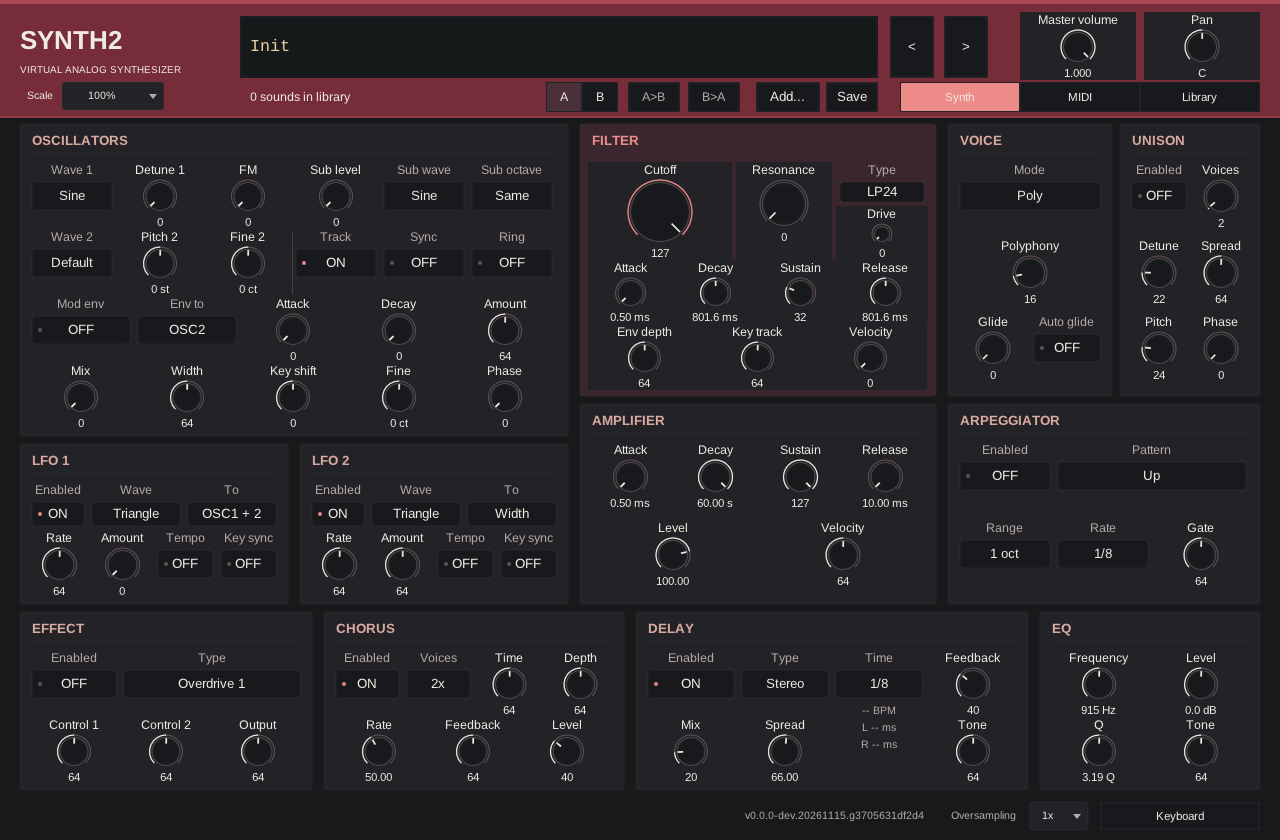
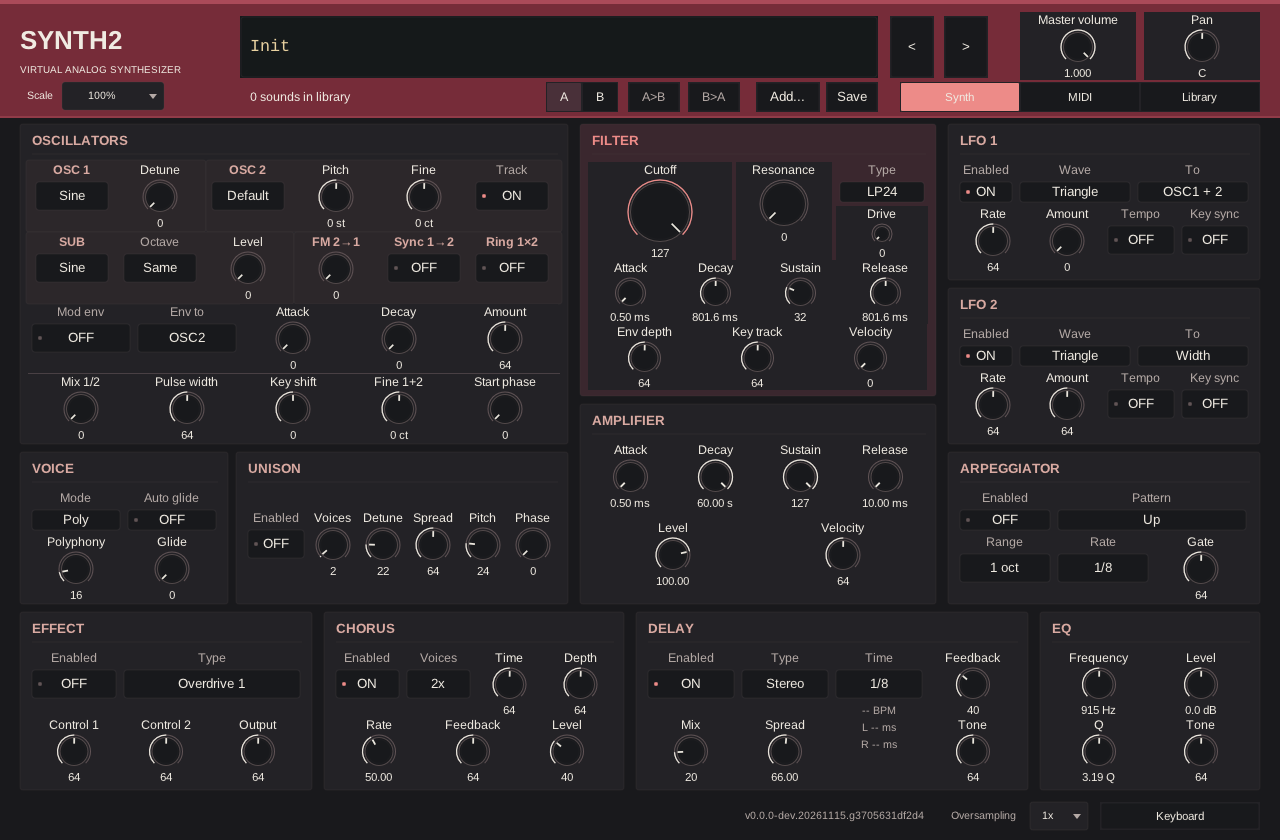
Group oscillator controls and place voice settings nearby

diff --git a/tools/editor-preview.html b/tools/editor-preview.html
@@ -29,13 +29,15 @@
 .section{background:var(--panel);border-color:var(--border);border-radius:3px}.section h2{font-size:13px;color:var(--tone);letter-spacing:1.6px}.section p{display:none}
 .section::after{content:'';position:absolute;left:12px;right:10px;top:29px;border-top:.5px solid var(--border)}
 .section.focus{background:var(--filterPanel)}
+.oscillator-group{position:absolute;background:var(--groupPanel);border:.5px solid var(--border);border-radius:3px;pointer-events:none}
+.control.group-heading .control-label{color:var(--groupText);font-weight:bold}
 .control{padding-top:0}.control-label{height:13px;line-height:13px;color:var(--muted)}
 .knob{background:conic-gradient(from 225deg,var(--tone) 0deg var(--sweep),var(--track) var(--sweep) 270deg,transparent 270deg)}
 .knob::after{inset:3px;background:var(--control);border:1px solid var(--controlEdge);box-shadow:inset 0 1px 1px #ffffff0a,0 1px 2px #0008}
 .needle{background:var(--pointer);top:6px;transform-origin:1px calc(var(--diameter) * .5px - 6px);height:calc(var(--diameter) * .22px)}
 .control.analog .value{top:calc(16px + var(--diameter) * 1px);left:0;width:100%;height:12px;color:var(--muted);font-size:10px}
 .source-choice,.toggle{background:var(--control);color:var(--text);border-color:var(--controlEdge);border-radius:3px;margin-top:6px}
-.toggle{position:relative}.toggle::before{content:'';position:absolute;left:8px;top:calc(50% - 2px);width:4px;height:4px;border-radius:50%;background:var(--track)}
+.toggle{position:relative}.toggle::before{content:'';position:absolute;left:6px;top:calc(50% - 2px);width:4px;height:4px;border-radius:50%;background:var(--track)}
 .toggle.on{color:var(--text);border-color:var(--controlEdge);background:var(--control)}.toggle.on::before{background:var(--accent);box-shadow:0 0 4px #ed8b8840}
 .status,.hint{color:var(--muted)}
 .key{background:linear-gradient(#e2ded5,#d0cec4);color:#6c6a62;border-color:#5b5653}.key.black{background:linear-gradient(#2b2a2b,#141417);border-color:#101013}.key.down{background:#d69a9a}.key.black.down{background:#7c3b46}
@@ -47,7 +49,7 @@
 .subtitle{font-size:11px}
 .section h2{font-size:var(--type-heading)}
 .control-label,.supplement .control-label{font-size:var(--type-label)}
-.control-label{height:16px;line-height:16px}
+.control{padding-top:0}.control-label{height:16px;line-height:16px}
 .knob{margin-top:1px}
 .control.analog .value{top:calc(18px + var(--diameter) * 1px);height:14px;font-size:var(--type-value)}
 .source-choice,.toggle{margin-top:4px;height:28px;max-height:calc(100% - 24px)}
@@ -110,9 +112,9 @@ function displayValue(index,value){
 }
 function setValue(index,value,edit=true){const p=model.parameters[index];if(!Number.isFinite(value))return;values[index]=Math.min(p.maximum,Math.max(p.minimum,edit&&p.integerSteps?Math.sign(value)*Math.round(Math.abs(value)):value));if(edit){modified=true;const name=selected>=0?bank[selected].name:'Init';refreshComparison();message(model.names[index]+'  /  '+formatted(values[index]));}redraw(index);}
 function redraw(index){const entry=controls.get(index);if(!entry)return;const {node,meta}=entry,p=model.parameters[index],value=values[index];if(p.toggle){const b=node.querySelector('button');b.classList.toggle('on',value!==0);b.textContent=value!==0?'ON':'OFF';b.setAttribute('aria-pressed',String(value!==0));}else if(p.choices.length){const s=node.querySelector('select');s.querySelectorAll('[data-raw]').forEach(x=>x.remove());if(!p.choices.some(x=>x[0]===value)){const option=new Option(value===0?'Default':'Custom',value);option.dataset.raw='true';s.append(option);}s.value=String(value);}else{const normalized=(value-p.minimum)/(p.maximum-p.minimum);node.style.setProperty('--sweep',(normalized*270)+'deg');node.style.setProperty('--angle',(-135+normalized*270)+'deg');const field=node.querySelector('.value');if(document.activeElement!==field)field.value=displayValue(index,value);node.querySelector('.knob-input').value=value;}}
-function control(meta,tone,supplement=false){const index=meta.parameter,p=model.parameters[index],node=document.createElement('div');node.className='control';node.dataset.parameter=index;node.style.setProperty('--tone',meta.tone??tone);bounds(node,meta.bounds);const label=document.createElement('label');label.className='control-label';label.textContent=meta.label;label.htmlFor='p'+index;node.append(label);node.title=model.names[index]+' (p'+index+')';if(p.toggle){const button=document.createElement('button');button.id='p'+index;button.className='toggle';button.setAttribute('aria-label',model.names[index]);button.addEventListener('click',()=>setValue(index,values[index]!==0?0:1));node.append(button);}else if(p.choices.length){const select=document.createElement('select');select.id='p'+index;select.className='source-choice';select.setAttribute('aria-label',model.names[index]);for(const [value,name,group]of p.choices){let parent=select;if(group){parent=[...select.children].find(n=>n.tagName==='OPTGROUP'&&n.label===group);if(!parent){parent=document.createElement('optgroup');parent.label=group;select.append(parent);}}parent.append(new Option(name,value));}select.addEventListener('change',()=>setValue(index,+select.value));node.append(select);}else{node.classList.add('analog');const diameter=meta.diameter??Math.max(18,Math.min(34,meta.bounds[3]-32));node.style.setProperty('--diameter',diameter);const knob=document.createElement('div');knob.className='knob';const needle=document.createElement('span');needle.className='needle';knob.append(needle);const input=document.createElement('input');input.id='p'+index;input.type='range';input.min=p.minimum;input.max=p.maximum;input.step=p.integerSteps?'1':'0.001';input.className='knob-input';input.setAttribute('aria-label',model.names[index]);input.addEventListener('input',()=>setValue(index,+input.value));input.addEventListener('pointerdown',event=>{event.preventDefault();input.focus();input.setPointerCapture(event.pointerId);drag={index,y:event.clientY,value:values[index],pointer:event.pointerId};});input.addEventListener('pointermove',event=>{if(!drag||drag.index!==index)return;const scale=$('instrument').getBoundingClientRect().width/1280;const step=(p.maximum-p.minimum)/160;const value=drag.value+(drag.y-event.clientY)/scale*step*(event.shiftKey?.1:1);setValue(index,Math.round(value*100)/100);});input.addEventListener('pointerup',()=>drag=null);input.addEventListener('pointercancel',()=>drag=null);input.addEventListener('dblclick',()=>setValue(index,base[index]));knob.append(input);node.append(knob);const number=document.createElement('input');number.className='value';number.type='text';number.inputMode=p.integerSteps?'numeric':'decimal';number.title='Click to edit the original source number ('+p.minimum+'–'+p.maximum+').';number.min=p.minimum;number.max=p.maximum;number.step=p.integerSteps?'1':'0.001';number.setAttribute('aria-label',model.names[index]+' value');number.addEventListener('focus',()=>{number.value=formatted(values[index]);number.select();message(model.names[index]+' / Edit source value '+p.minimum+'–'+p.maximum);});number.addEventListener('change',()=>{if(number.value.trim())setValue(index,Number(number.value));});number.addEventListener('blur',()=>redraw(index));number.addEventListener('keydown',event=>{if(event.key==='Enter')number.blur();if(event.key==='Escape'){number.value=formatted(values[index]);number.blur();}});node.append(number);}controls.set(index,{node,meta});node.addEventListener('focusin',()=>message(model.names[index]+'  /  p'+index));return node;}
+function control(meta,tone,supplement=false){const index=meta.parameter,p=model.parameters[index],node=document.createElement('div');node.className='control'+(meta.groupLabel?' group-heading':'');node.dataset.parameter=index;node.style.setProperty('--tone',meta.tone??tone);bounds(node,meta.bounds);const label=document.createElement('label');label.className='control-label';label.textContent=meta.label;label.htmlFor='p'+index;node.append(label);node.title=meta.help||(model.names[index]+' (p'+index+')');if(p.toggle){const button=document.createElement('button');button.id='p'+index;button.className='toggle';button.setAttribute('aria-label',model.names[index]);button.addEventListener('click',()=>setValue(index,values[index]!==0?0:1));node.append(button);}else if(p.choices.length){const select=document.createElement('select');select.id='p'+index;select.className='source-choice';select.setAttribute('aria-label',model.names[index]);for(const [value,name,group]of p.choices){let parent=select;if(group){parent=[...select.children].find(n=>n.tagName==='OPTGROUP'&&n.label===group);if(!parent){parent=document.createElement('optgroup');parent.label=group;select.append(parent);}}parent.append(new Option(name,value));}select.addEventListener('change',()=>setValue(index,+select.value));node.append(select);}else{node.classList.add('analog');const diameter=meta.diameter??Math.max(18,Math.min(34,meta.bounds[3]-32));node.style.setProperty('--diameter',diameter);const knob=document.createElement('div');knob.className='knob';const needle=document.createElement('span');needle.className='needle';knob.append(needle);const input=document.createElement('input');input.id='p'+index;input.type='range';input.min=p.minimum;input.max=p.maximum;input.step=p.integerSteps?'1':'0.001';input.className='knob-input';input.setAttribute('aria-label',model.names[index]);input.addEventListener('input',()=>setValue(index,+input.value));input.addEventListener('pointerdown',event=>{event.preventDefault();input.focus();input.setPointerCapture(event.pointerId);drag={index,y:event.clientY,value:values[index],pointer:event.pointerId};});input.addEventListener('pointermove',event=>{if(!drag||drag.index!==index)return;const scale=$('instrument').getBoundingClientRect().width/1280;const step=(p.maximum-p.minimum)/160;const value=drag.value+(drag.y-event.clientY)/scale*step*(event.shiftKey?.1:1);setValue(index,Math.round(value*100)/100);});input.addEventListener('pointerup',()=>drag=null);input.addEventListener('pointercancel',()=>drag=null);input.addEventListener('dblclick',()=>setValue(index,base[index]));knob.append(input);node.append(knob);const number=document.createElement('input');number.className='value';number.type='text';number.inputMode=p.integerSteps?'numeric':'decimal';number.title='Click to edit the original source number ('+p.minimum+'–'+p.maximum+').';number.min=p.minimum;number.max=p.maximum;number.step=p.integerSteps?'1':'0.001';number.setAttribute('aria-label',model.names[index]+' value');number.addEventListener('focus',()=>{number.value=formatted(values[index]);number.select();message(model.names[index]+' / Edit source value '+p.minimum+'–'+p.maximum);});number.addEventListener('change',()=>{if(number.value.trim())setValue(index,Number(number.value));});number.addEventListener('blur',()=>redraw(index));number.addEventListener('keydown',event=>{if(event.key==='Enter')number.blur();if(event.key==='Escape'){number.value=formatted(values[index]);number.blur();}});node.append(number);}controls.set(index,{node,meta});node.addEventListener('focusin',()=>message(model.names[index]+'  /  p'+index));return node;}
 for(const [key,bounds] of [["headerMaster","masterVolume"],["headerPan","pan"]])surface.append(control({...model[key],bounds:model.chrome[bounds]},model.appearance.pointer));
-for(const panel of model.panels){const section=document.createElement('section');section.className='section primary'+(panel.title==='FILTER'?' focus':'');section.title=panel.description;section.style.setProperty('--tone',panel.accent);bounds(section,panel.bounds);const h=document.createElement('h2');h.textContent=panel.title;const d=document.createElement('p');d.textContent=panel.description;section.append(h,d);surface.append(section);for(const divider of panel.dividers){const line=document.createElement('div');line.className='panel-divider primary';bounds(line,divider);surface.append(line);}for(const meta of panel.controls){const c=control(meta,panel.accent);c.classList.add('primary');surface.append(c);}}
+for(const panel of model.panels){const section=document.createElement('section');section.className='section primary'+(panel.title==='FILTER'?' focus':'');section.title=panel.description;section.style.setProperty('--tone',panel.accent);bounds(section,panel.bounds);const h=document.createElement('h2');h.textContent=panel.title;const d=document.createElement('p');d.textContent=panel.description;section.append(h,d);surface.append(section);for(const group of panel.groups){const area=document.createElement('div');area.className='oscillator-group primary';bounds(area,group);surface.append(area);}for(const divider of panel.dividers){const line=document.createElement('div');line.className='panel-divider primary';bounds(line,divider);surface.append(line);}for(const meta of panel.controls){const c=control(meta,panel.accent);c.classList.add('primary');surface.append(c);}}
 const timing=document.createElement('div');timing.className='delay-timing primary';bounds(timing,model.delayTimingBounds);timing.innerHTML='-- BPM<br>L -- ms<br>R -- ms';surface.append(timing);
 for(const panel of model.midiPanels){const section=document.createElement('section');section.className='section supplement';section.dataset.supplement=1;bounds(section,panel.bounds);const h=document.createElement('h2');h.textContent=panel.title;section.append(h);surface.append(section);for(const divider of panel.dividers){const line=document.createElement('div');line.className='panel-divider supplement';line.dataset.supplement=1;bounds(line,divider);surface.append(line);}for(const meta of panel.controls){const c=control(meta,panel.accent);c.classList.add('supplement');c.dataset.supplement=1;surface.append(c);}}
 

diff --git a/projects/Synth2/src/editor/EditorLayout.h b/projects/Synth2/src/editor/EditorLayout.h
@@ -9,6 +9,35 @@ namespace synth2::editor
 struct EditorChoice { int value; const char* label; const char* group=nullptr; };
 struct EditorBounds { int x,y,width,height; };
 struct EditorControl { int parameter; const char* label; };
+inline bool editorGroupHeading(int parameter)
+{
+    return parameter==0 || parameter==1 || parameter==96 || parameter==45 || parameter==6 || parameter==7;
+}
+inline bool editorOscillatorGrouped(int parameter)
+{
+    switch(parameter) {
+        case 0: case 76: case 45: case 95: case 96: case 97:
+        case 1: case 2: case 3: case 4: case 6: case 7: return true;
+        default: return false;
+    }
+}
+inline const char* editorControlHelp(int parameter)
+{
+    switch(parameter) {
+        case 4:return "OSC2 keyboard tracking. When off, OSC2 uses a fixed pitch.";
+        case 5:return "OSC1/OSC2 balance; Sub follows the OSC1 side. With Ring on, blends dry OSC1 and the ring-modulated signal.";
+        case 6:return "OSC1 synchronizes OSC2 by resetting its cycle. OSC2 Pitch changes the synced timbre.";
+        case 7:return "Ring-modulates OSC1 with OSC2. Mix blends dry OSC1 and the ring-modulated signal. Ring takes precedence over FM.";
+        case 8:return "Pulse width for OSC1 and OSC2 when a pulse waveform is selected.";
+        case 45:return "OSC2 modulates OSC1. Ring takes precedence over FM processing; the FM amount is retained and can still affect Ring-mode level.";
+        case 91:return "Oscillator start phase: 0 is random; fixed settings establish OSC1/OSC2 phase relationships at note-on.";
+        case 92:return "Phase spread across Unison voices when a fixed oscillator start phase is selected.";
+        case 95:return "Sub oscillator level. Sub follows OSC1 pitch, and the OSC1/OSC2 Mix also affects its level.";
+        case 96:return "Sub oscillator waveform, referenced to OSC1 pitch and the Sub octave setting.";
+        case 97:return "Sub oscillator pitch relative to OSC1: the same octave or one octave lower.";
+        default:return nullptr;
+    }
+}
 struct EditorPanel
 {
     const char* title;
@@ -88,25 +117,26 @@ inline std::vector<EditorChoice> editorChoices(int index)
 inline const std::vector<EditorPanel>& editorPanels()
 {
     static const std::vector<EditorPanel> panels {
-        {"OSCILLATORS","OSC1 + OSC2  /  FM, Ring & Sub","#d9aaa2",{20,124,548,312},6,
-            {{0,"Wave 1"},{76,"Detune 1"},{45,"FM"},{95,"Sub level"},{96,"Sub wave"},{97,"Sub octave"},
-             {1,"Wave 2"},{2,"Pitch 2"},{3,"Fine 2"},{4,"Track"},{6,"Sync"},{7,"Ring"},
+        {"OSCILLATORS","OSC1 + OSC2  /  FM, Ring & Sub","#d9aaa2",{20,124,548,320},6,
+            {{0,"OSC 1"},{76,"Detune"},{1,"OSC 2"},{2,"Pitch"},{3,"Fine"},{4,"Track"},
+             {96,"SUB"},{97,"Octave"},{95,"Level"},
+             {45,"FM 2\xe2\x86\x92" "1"},{6,"Sync 1\xe2\x86\x92" "2"},{7,"Ring 1\xc3\x97" "2"},
              {10,"Mod env"},{71,"Env to"},{12,"Attack"},{13,"Decay"},{11,"Amount"},
-             {5,"Mix"},{8,"Width"},{9,"Key shift"},{72,"Fine"},{91,"Phase"}}},
+             {5,"Mix 1/2"},{8,"Pulse width"},{9,"Key shift"},{72,"Fine 1+2"},{91,"Start phase"}}},
         {"FILTER","Tone & filter envelope","#ed8b88",{580,124,356,272},4,
             {{14,"Type"},{19,"Cutoff"},{20,"Resonance"},{23,"Drive"},{15,"Attack"},{16,"Decay"},
              {17,"Sustain"},{18,"Release"},{21,"Env depth"},{22,"Key track"},{24,"Velocity"}}},
         {"AMPLIFIER","Level & amplitude envelope","#d9aaa2",{580,404,356,200},4,
             {{25,"Attack"},{26,"Decay"},{27,"Sustain"},{28,"Release"},{29,"Level"},{30,"Velocity"}}},
-        {"LFO 1","Independent modulation","#d9aaa2",{20,444,268,160},3,
+        {"LFO 1","Independent modulation","#d9aaa2",{948,124,312,156},3,
             {{57,"Enabled"},{42,"Wave"},{41,"To"},{43,"Rate"},{44,"Amount"},{67,"Tempo"},{68,"Key sync"}}},
-        {"LFO 2","Independent modulation","#d9aaa2",{300,444,268,160},3,
+        {"LFO 2","Independent modulation","#d9aaa2",{948,288,312,156},3,
             {{58,"Enabled"},{47,"Wave"},{46,"To"},{48,"Rate"},{49,"Amount"},{69,"Tempo"},{70,"Key sync"}}},
-        {"VOICE","Play mode, polyphony & glide","#d9aaa2",{948,124,164,272},2,
+        {"VOICE","Play mode, polyphony & glide","#d9aaa2",{20,452,208,152},2,
             {{38,"Mode"},{94,"Polyphony"},{39,"Glide"},{74,"Auto glide"}}},
-        {"UNISON","Voice stacking & stereo spread","#d9aaa2",{1120,124,140,272},2,
+        {"UNISON","Voice stacking & stereo spread","#d9aaa2",{236,452,332,152},6,
             {{73,"Enabled"},{93,"Voices"},{75,"Detune"},{84,"Spread"},{85,"Pitch"},{92,"Phase"}}},
-        {"ARPEGGIATOR","Tempo-based note motion","#d9aaa2",{948,404,312,200},3,
+        {"ARPEGGIATOR","Tempo-based note motion","#d9aaa2",{948,452,312,152},3,
             {{59,"Enabled"},{31,"Pattern"},{32,"Range"},{33,"Rate"},{34,"Gate"}}},
         {"EFFECT","Drive & character","#d9aaa2",{20,612,292,178},3,
             {{77,"Enabled"},{78,"Type"},{81,"Output"},{79,"Control 1"},{80,"Control 2"}}},
@@ -124,12 +154,14 @@ inline EditorBounds editorControlBounds(const EditorPanel& panel,std::size_t cel
 {
     if (std::string(panel.title)=="OSCILLATORS")
     {
-        // OSC1/Sub, OSC2, Mod Env, then shared mix/tuning controls.
+        // Main oscillators, then Sub/interactions, modulation and shared settings.
         const int row=cell<12 ? static_cast<int>(cell)/6 : cell<17 ? 2 : 3;
         const int columns=row<2 ? 6 : 5;
         const int column=static_cast<int>(cell)-(row<2 ? row*6 : row==2 ? 12 : 17);
-        const int width=(panel.bounds.width-16)/columns,height=(panel.bounds.height-44)/4;
-        return {panel.bounds.x+8+column*width,panel.bounds.y+38+row*height,width,height};
+        const int width=(panel.bounds.width-16)/columns;
+        const int top=row<2 ? row*72 : row==2 ? 142 : 212;
+        const int inset=row<2 ? 4 : 0;
+        return {panel.bounds.x+8+column*width+inset,panel.bounds.y+38+top,width-2*inset,68};
     }
     if (std::string(panel.title)=="AMPLIFIER")
     {
@@ -141,17 +173,24 @@ inline EditorBounds editorControlBounds(const EditorPanel& panel,std::size_t cel
     if (std::string(panel.title)=="VOICE")
     {
         const int x=panel.bounds.x+8,y=panel.bounds.y+38;
-        const int width=panel.bounds.width-16,height=(panel.bounds.height-44)/3;
-        if(cell<2)return {x,y+static_cast<int>(cell)*height,width,height};
-        return {x+static_cast<int>(cell-2)*(width/2),y+2*height,width/2,height};
+        const int width=(panel.bounds.width-16)/2;
+        const int parameter=panel.controls[cell].parameter;
+        if(parameter==38 || parameter==74)return {x+(parameter==74 ? width : 0),y,width,44};
+        return {x+(parameter==39 ? width : 0),y+44,width,68};
+    }
+    if (std::string(panel.title)=="UNISON")
+    {
+        const int enabledWidth=64,width=(panel.bounds.width-16-enabledWidth)/5;
+        return {panel.bounds.x+8+(cell==0 ? 0 : enabledWidth+static_cast<int>(cell-1)*width),
+            panel.bounds.y+38+(panel.bounds.height-112)/2,cell==0 ? enabledWidth : width,68};
     }
     if (std::string(panel.title)=="ARPEGGIATOR")
     {
         const int x=panel.bounds.x+8,y=panel.bounds.y+38;
-        const int width=(panel.bounds.width-16)/3,height=(panel.bounds.height-44)/2;
-        if(cell==0)return {x,y,width,height};
-        if(cell==1)return {x+width,y,width*2,height};
-        return {x+static_cast<int>(cell-2)*width,y+height,width,height};
+        const int width=(panel.bounds.width-16)/3;
+        if(cell==0)return {x,y,width,44};
+        if(cell==1)return {x+width,y,width*2,44};
+        return {x+static_cast<int>(cell-2)*width,y+44,width,68};
     }
     if (std::string(panel.title)=="FILTER")
     {
@@ -181,10 +220,10 @@ inline EditorBounds editorControlBounds(const EditorPanel& panel,std::size_t cel
         {
             const int enabledWidth=60,choiceWidth=(inner-enabledWidth)/2;
             return {x+(cell==0 ? 0 : enabledWidth+static_cast<int>(cell-1)*choiceWidth),
-                    y,cell==0 ? enabledWidth : choiceWidth,48};
+                    y,cell==0 ? enabledWidth : choiceWidth,44};
         }
         const int width=inner/4;
-        return {x+static_cast<int>(cell-3)*width,y+48,width,panel.bounds.height-92};
+        return {x+static_cast<int>(cell-3)*width,y+44,width,68};
     }
     if(std::string(panel.title)=="CHORUS" && cell>=4)
     {
@@ -208,8 +247,7 @@ inline std::vector<EditorBounds> editorPanelDividers(const EditorPanel& panel)
     const int x=panel.bounds.x,y=panel.bounds.y;
     if(std::string(panel.title)=="OSCILLATORS")
     {
-        const int width=(panel.bounds.width-16)/6,height=(panel.bounds.height-44)/4;
-        return {{x+8+3*width,y+40,1,height-4},{x+8+3*width,y+40+height,1,height-4}};
+        return {{x+8,y+249,panel.bounds.width-16,1}};
     }
     if(std::string(panel.title)=="AMPLIFIER")
         return {{x+12,y+38+(panel.bounds.height-44)/2-6,panel.bounds.width-24,1}};
@@ -217,6 +255,15 @@ inline std::vector<EditorBounds> editorPanelDividers(const EditorPanel& panel)
         return {{x+160,y+38,1,panel.bounds.height-50},
                 {x+184,y+116,panel.bounds.width-200,1}};
     return {};
+}
+inline std::vector<EditorBounds> editorPanelGroups(const EditorPanel& panel)
+{
+    if(std::string(panel.title)!="OSCILLATORS")return {};
+    const int x=panel.bounds.x+6,y=panel.bounds.y+36;
+    const int inner=panel.bounds.width-12,cell=(panel.bounds.width-16)/6;
+    const int osc1=2*cell+4,sub=3*cell+4;
+    return {{x,y,osc1,72},{x+osc1,y,inner-osc1,72},
+            {x,y+72,sub,72},{x+sub,y+72,inner-sub,72}};
 }
 inline const std::vector<EditorPanel>& editorMidiPanels()
 {

diff --git a/projects/Synth2/editor/EditorControls.cpp b/projects/Synth2/editor/EditorControls.cpp
@@ -91,12 +91,20 @@ void SectionControl::Draw(IGraphics& g) {
     const auto heading=IRECT(mRECT.L+12,mRECT.T+8,mRECT.R-10,mRECT.T+26);
     g.DrawText(IText(Typography::heading,color(section.accent),"Synth2UIBold",EAlign::Near),section.title,heading);
     g.DrawLine(color(appearance.border),heading.L,mRECT.T+30,heading.R,mRECT.T+30,nullptr,0.5f);
+    for(const auto& group:synth2::editor::editorPanelGroups(section)) {
+        g.FillRoundRect(color(appearance.groupPanel),rect(group),3.f);
+        g.DrawRoundRect(color(appearance.border),rect(group),3.f,nullptr,0.5f);
+    }
     for(const auto& divider:synth2::editor::editorPanelDividers(section))
         g.FillRect(color(appearance.border),rect(divider));
 }
 
 PanelKnobControl::PanelKnobControl(const IRECT& bounds,int parameter,const char* label,const IVStyle& style)
-    : IVKnobControl(bounds,parameter,label,style.WithLabelText(style.labelText.WithSize(Typography::label))
+    : IVKnobControl(bounds,parameter,label,(synth2::editor::editorOscillatorGrouped(parameter)
+        ? style.WithColor(kBG,color(appearance.groupPanel)) : style)
+        .WithLabelText((synth2::editor::editorGroupHeading(parameter)
+            ? style.labelText.WithFont("Synth2UIBold").WithFGColor(color(appearance.groupText)) : style.labelText)
+            .WithSize(Typography::label))
         .WithValueText(style.valueText.WithSize(Typography::value)),true,false) {
     mTrackToHandleDistance=2.5f;
     SetTooltip("Drag to adjust. Click value to edit the original source number.");
@@ -140,7 +148,8 @@ SourceChoiceControl::SourceChoiceControl(const IRECT& bounds,int parameter,const
 void SourceChoiceControl::Draw(IGraphics& g) {
     const auto raw=sourceValue();
     const auto value=synth2::editor::editorChoiceDisplay(toggle,raw,choices);
-    g.DrawText(IText(Typography::label,muted,"Synth2UI"),label,
+    const bool heading=synth2::editor::editorGroupHeading(GetParamIdx());
+    g.DrawText(IText(Typography::label,heading ? color(appearance.groupText) : muted,heading ? "Synth2UIBold" : "Synth2UI"),label,
                IRECT(mRECT.L,mRECT.T,mRECT.R,mRECT.T+16));
     const auto box=IRECT(mRECT.L+4,mRECT.T+20,mRECT.R-4,std::min(mRECT.B-4,mRECT.T+48));
     g.FillRoundRect(color(appearance.control),box,3.f);
@@ -155,13 +164,15 @@ void SourceChoiceControl::Draw(IGraphics& g) {
     const auto display=value=="Random smooth" ? std::string("Rnd smooth") : value;
     const bool midiChoice=GetParamIdx()==40 || (GetParamIdx()>=86 && GetParamIdx()<=89);
     const auto fitted=synth2::editor::editorFitText(display,box.W()-(midiChoice ? 28.f : 10.f),measure);
-    auto valueBounds=box.GetPadded(-3.f);
+    auto valueBounds=IRECT(box.L+3.f,box.T,box.R-3.f,box.B);
     if(midiChoice) {
         valueBounds.R-=20.f;
         g.FillTriangle(muted,box.R-15,box.MH()-2,box.R-7,box.MH()-2,box.R-11,box.MH()+3);
     }
     g.DrawText(choiceText,fitted.c_str(),valueBounds);
-    SetTooltip((std::string(label)+": "+value).c_str());
+    auto tooltip=std::string(label)+": "+value;
+    if(const auto* help=synth2::editor::editorControlHelp(GetParamIdx()))tooltip=std::string(help)+" Current: "+value+".";
+    SetTooltip(tooltip.c_str());
 }
 
 void SourceChoiceControl::OnMouseDown(float,float,const IMouseMod&) {

diff --git a/tools/render_editor_study.py b/tools/render_editor_study.py
@@ -94,6 +94,8 @@ def render(model, view="synth"):
         box(x,y,w,h,a["filterPanel"] if section["title"]=="FILTER" else a["panel"],3,a["border"])
         text(x+12,y+22,section["title"],t["heading"],tone,weight="bold")
         nodes.append(f'<path d="M{x+12},{y+30} H{x+w-10}" stroke="{a["border"]}" stroke-width=".5"/>')
+        for gx,gy,gw,gh in section["groups"]:
+            box(gx,gy,gw,gh,a["groupPanel"],3,a["border"])
         for dx,dy,dw,dh in section["dividers"]:
             nodes.append(f'<rect x="{dx}" y="{dy}" width="{dw}" height="{dh}" fill="{a["border"]}"/>')
         for control in section["controls"]:
@@ -101,19 +103,23 @@ def render(model, view="synth"):
             index = control["parameter"]
             meta = model["parameters"][index]
             value = values[index]
-            text(x+w/2,y+11,control["label"],t["label"],a["muted"],"middle")
+            heading=control["groupLabel"]
+            text(x+w/2,y+11,control["label"],t["label"],a["groupText"] if heading else a["muted"],
+                 "middle","bold" if heading else "normal")
             if meta["toggle"] or meta["choices"]:
-                box(x+4,y+20,w-8,min(28,h-24),radius=4)
+                choice_height=min(28,h-24)
+                cy=y+20+choice_height/2
+                box(x+4,y+20,w-8,choice_height,radius=4)
                 label = "ON" if value else "OFF"
                 if not meta["toggle"]:
                     label = next((entry[1] for entry in meta["choices"] if entry[0]==value),"Default" if value==0 else "Custom")
                 label = "Rnd smooth" if label == "Random smooth" else label
                 size = t["button"]
-                text(x+w/2-(10 if index==40 or 86<=index<=89 else 0),y+37,label,size,align="middle")
+                text(x+w/2-(10 if index==40 or 86<=index<=89 else 0),cy+size/3,label,size,align="middle")
                 if index==40 or 86<=index<=89:
-                    nodes.append(f'<path d="M{x+w-19},{y+32} h8 l-4,5 z" fill="{a["muted"]}"/>')
+                    nodes.append(f'<path d="M{x+w-19},{cy-2} h8 l-4,5 z" fill="{a["muted"]}"/>')
                 if meta["toggle"]:
-                    nodes.append(f'<circle cx="{x+12}" cy="{y+32.5}" r="2" fill="{a["accent"] if value else a["track"]}"/>')
+                    nodes.append(f'<circle cx="{x+12}" cy="{cy}" r="2" fill="{a["accent"] if value else a["track"]}"/>')
             else:
                 knob(control)
     if view=="synth":

diff --git a/tools/export_editor_layout.cpp b/tools/export_editor_layout.cpp
@@ -40,7 +40,8 @@ int main()
     bool firstColor=true;
     for (const auto& color:std::initializer_list<std::pair<const char*,const char*>>{
         {"background",a.background},{"header",a.header},{"headerEdge",a.headerEdge},{"panel",a.panel},{"selectedRow",a.selectedRow},
-        {"filterPanel",a.filterPanel},{"border",a.border},{"text",a.text},{"muted",a.muted},{"accent",a.accent},
+        {"filterPanel",a.filterPanel},{"groupPanel",a.groupPanel},{"groupText",a.groupText},
+        {"border",a.border},{"text",a.text},{"muted",a.muted},{"accent",a.accent},
         {"display",a.display},{"displayText",a.displayText},{"control",a.control},{"controlEdge",a.controlEdge},
         {"track",a.track},{"pointer",a.pointer}})
     {
@@ -62,6 +63,12 @@ int main()
             if(!firstDivider)std::cout << ',';firstDivider=false;
             std::cout << '[' << b.x << ',' << b.y << ',' << b.width << ',' << b.height << ']';
         }
+        std::cout << "],\"groups\":[";
+        bool firstGroup=true;
+        for(const auto& b:synth2::editor::editorPanelGroups(panel)) {
+            if(!firstGroup)std::cout << ',';firstGroup=false;
+            std::cout << '[' << b.x << ',' << b.y << ',' << b.width << ',' << b.height << ']';
+        }
         std::cout << "],\"controls\":[";
         bool first=true;
         for (std::size_t cell=0;cell<panel.controls.size();++cell)
@@ -72,6 +79,8 @@ int main()
             std::cout << "{\"parameter\":" << control.parameter << ",\"label\":" << std::quoted(control.label)
                       << ",\"bounds\":[" << b.x << ',' << b.y << ',' << b.width << ',' << b.height << "]"
                       << ",\"diameter\":" << synth2::editor::editorKnobDiameter(control.parameter,b.height)
+                      << ",\"groupLabel\":" << (synth2::editor::editorGroupHeading(control.parameter) ? "true" : "false")
+                      << ",\"help\":" << std::quoted(synth2::editor::editorControlHelp(control.parameter) ? synth2::editor::editorControlHelp(control.parameter) : "")
                       << ",\"tone\":" << std::quoted(control.parameter==19 ? a.accent : a.pointer) << '}';
         }
         std::cout << "]}";

diff --git a/projects/Synth2/Synth2Editor.cpp b/projects/Synth2/Synth2Editor.cpp
@@ -161,7 +161,8 @@ void Synth2::layoutEditor(IGraphics* graphics)
                     return range.minimum+processor.normalizedValue(index)*(range.maximum-range.minimum);
                 });
             else control=new PanelKnobControl(bounds,item.parameter,item.label,style.WithColor(kPR,tint));
-            const auto tooltip=processor.parameter(item.parameter).name;
+            const auto* help=synth2::editor::editorControlHelp(item.parameter);
+            const auto tooltip=help ? std::string(help) : processor.parameter(item.parameter).name;
             control->SetTooltip(tooltip.c_str());
             graphics->AttachControl(control,parameterTag+item.parameter);
         }

diff --git a/tests/EditorLayoutTest.cpp b/tests/EditorLayoutTest.cpp
@@ -61,6 +61,11 @@ TEST(EditorLayout, ControlsFitWithoutCollidingWithPanelsOrTheBrowserAndKeyboard)
     {
         const auto& panel=panels[p]; SCOPED_TRACE(panel.title);
         ASSERT_FALSE(panel.controls.empty()); ASSERT_GT(panel.columns,0);
+        for(const auto& group:editorPanelGroups(panel)) {
+            EXPECT_GE(group.x,panel.bounds.x+4);EXPECT_GE(group.y,panel.bounds.y+32);
+            EXPECT_LE(group.x+group.width,panel.bounds.x+panel.bounds.width-4);
+            EXPECT_LE(group.y+group.height,panel.bounds.y+panel.bounds.height-4);
+        }
         if(std::string(panel.title)=="DELAY")
         {
             EXPECT_GE(editorDelayTimingBounds.x,panel.bounds.x+8);

diff --git a/projects/Synth2/src/editor/EditorAppearance.h b/projects/Synth2/src/editor/EditorAppearance.h
@@ -12,6 +12,8 @@ struct EditorAppearance
     const char* headerEdge="#aa4a59";
     const char* panel="#232226";
     const char* filterPanel="#3a272e";
+    const char* groupPanel="#2c272a";
+    const char* groupText="#d9aaa2";
     const char* border="#494044";
     const char* text="#f0ebe2";
     const char* muted="#b5aaa6";

diff --git a/docs/validation/coverage.md b/docs/validation/coverage.md
@@ -30,7 +30,7 @@ work; automated success does not claim that such work was performed.
 | Effects/output lifecycle | [EffectsBehavior](../../tests/EffectsBehaviorTest.cpp), [EffectLifecycle](../../tests/EffectLifecycleTest.cpp), [EqualizerBehavior](../../tests/EqualizerBehaviorTest.cpp): bypass/reset, isolated modes, tails, rate setup, silence gain and output regions | Component reset and cold-start checks do not establish every conditional Engine history |
 | Native VST3 patch publication | [PatchNotificationTest](../../tests/sdk/vst3/PatchNotificationTest.cpp): actual Synth2/iPlug2/VST3 code with a headless delegate; controller readback during notifications, full host readback echo preserving legacy controls/state/audio and fractional selectors, real host edits and explicit UI setters, latency publication without duplicate restarts, framework UI MIDI queue delivery, A/B switch/copy/recall with controller readback | Runs separately in Windows/Linux native CI; no DAW or GUI interaction |
 | Built-plugin patch audio | [Native audio smoke](../../tests/native/README.md): actual VST3/CLAP modules on Linux/Windows/macOS and AUv2 on macOS; authored tone → mute → tone state restore, MIDI note-on/off, finite stereo output, sound/silence at 1x/8x, both active sides of persisted A/B sessions; VST3 baseline/host-echo raw stereo equality for legacy and fractional states | Public host APIs without GUI/audio devices; echo regression and coarse signal properties, not DLL equivalence or DAW/Library UI acceptance |
-| Editor source binding | [EditorInteraction](../../tests/EditorInteractionTest.cpp): shared native choice/toggle logic, loading/refresh/import/save summaries and distinct empty/filter/error states, inline library bank/tag hit regions, fractional-scroll row targeting and shared tag-toggle limits, measured active-filter chips and overflow access without gap actions, every selector, cancellation, editing steps, named MIDI assignments and disabled-destination render/patch/state recall, bend-range choices with out-of-menu recall, signed fractional sensitivity displays, fractional unit displays, Delay note choices and fractional recall, host values and recall; [EditorLayout](../../tests/EditorLayoutTest.cpp): control/divider bounds, persistent Master/Pan header controls and center/L/R readouts, reserved delay readout space, labels/units, hidden metadata and Synth/MIDI/Library views | Covers shared source-selection logic, bridge binding and presentation |
+| Editor source binding | [EditorInteraction](../../tests/EditorInteractionTest.cpp): shared native choice/toggle logic, loading/refresh/import/save summaries and distinct empty/filter/error states, inline library bank/tag hit regions, fractional-scroll row targeting and shared tag-toggle limits, measured active-filter chips and overflow access without gap actions, every selector, cancellation, editing steps, named MIDI assignments and disabled-destination render/patch/state recall, bend-range choices with out-of-menu recall, signed fractional sensitivity displays, fractional unit displays, Delay note choices and fractional recall, host values and recall; [EditorLayout](../../tests/EditorLayoutTest.cpp): control/group/divider bounds, persistent Master/Pan header controls and center/L/R readouts, reserved delay readout space, labels/units, hidden metadata and Synth/MIDI/Library views | Covers shared source-selection logic, bridge binding and presentation |
 | CI preparation and candidate archives | BuildToolsTests: local Git SDK fixtures with CRLF preservation/reuse and edited-code rejection; generated product files, missing-binary rejection, metadata/notices, unrelated-file exclusion, overwrite rejection and POSIX bundle modes/symlinks; Linux archive products, adjacent resources and x86_64 bundle validation | Self-contained preparation/package contracts; no network or real SDK required, and no native build or DAW pass established |
 | Memory and undefined behavior | AddressSanitizer/UndefinedBehaviorSanitizer/LeakSanitizer local C++ runs; generated input sentinels | Compiler, architecture and platform coverage must be recorded per run |
 

diff --git a/docs/gui/README.md b/docs/gui/README.md
@@ -1,8 +1,8 @@
 # Editor behavior and visual contract
 
 Ordinary sound design belongs on one Synth surface with Synth1-inspired functional
-groups. Oscillators occupy the wider left column above the two LFOs. Filter
-and Amplifier share the center column; adjacent Voice and Unison panels sit above
+groups. Oscillators occupy the wider left column above adjacent Voice and Unison
+panels. Filter and Amplifier share the center column; the two LFOs stack above
 ARP in the right column.
 Effects and EQ occupy the bottom. Pan remains in the persistent header beside
 Master volume on every view. Allocate panel space by control density
@@ -58,15 +58,24 @@ units below the panel top. Both LFOs use a selector row followed by Rate, Amount
 Tempo and Key sync, with full-size Rate/Amount knobs. Chorus uses three full-width
 lower-row columns.
 Use Synth1's original functional groupings as a reference while retaining the
-larger Nord Lead 2-inspired Cutoff and its filter emphasis. Oscillator rows group
-OSC1/Sub, OSC2, Mod Env and shared mix/tuning controls. Voice groups Mode and
-Polyphony above paired Glide/Auto glide controls. Unison has its own adjacent
-panel, with Enabled/Voices, Detune/Spread and Pitch/Phase pairs. Amplifier separates
+larger Nord Lead 2-inspired Cutoff and its filter emphasis. Oscillator rows frame
+OSC1 and OSC2 side by side, with OSC1-based Sub and a separate interaction frame
+below. OSC1 groups Wave/Detune; OSC2 groups Wave/Pitch/Fine/Track. Sub groups
+Wave/Octave/Level. FM (OSC2 to OSC1), Sync (OSC1 to OSC2) and Ring (OSC1 times OSC2)
+share the interaction frame. The waveform selectors carry OSC1/OSC2/Sub headings,
+and interaction labels show the oscillator relationships. Mod Env and shared
+mix/tuning controls remain below those frames; Pulse width, shared Fine and Start phase
+labels distinguish their scope from OSC2 tuning. Tooltips explain Sub's OSC1/Mix
+dependency, Ring's priority over FM, and phase settings that apply at note-on.
+Voice sits directly below the
+oscillators, with Mode/Auto glide above Polyphony/Glide. Adjacent Unison keeps
+Enabled, Voices, Detune, Spread, Pitch and Phase in one centered row. Both LFOs
+retain a selector row and full-size lower knobs in the right column. Amplifier separates
 ADSR from level/velocity. EQ arranges Frequency/Level and Q/Tone in two compact rows. The bottom row distributes width by control density, keeping ordinary knob
 spacing close across Effect, Chorus, Delay and EQ. Time retains its tempo and
 stereo-delay readout directly below it. Muted rose headings and thin internal dividers
 provide hierarchy without reducing label sizes or moving controls off the main
-surface. Native drawing and review studies share divider and delay readout bounds;
+surface. Native drawing and review studies share group frames, dividers and delay readout bounds;
 studies use placeholders for live tempo and stereo delay times.
 Native drawing and review tools consume the shared typography policy.
 
